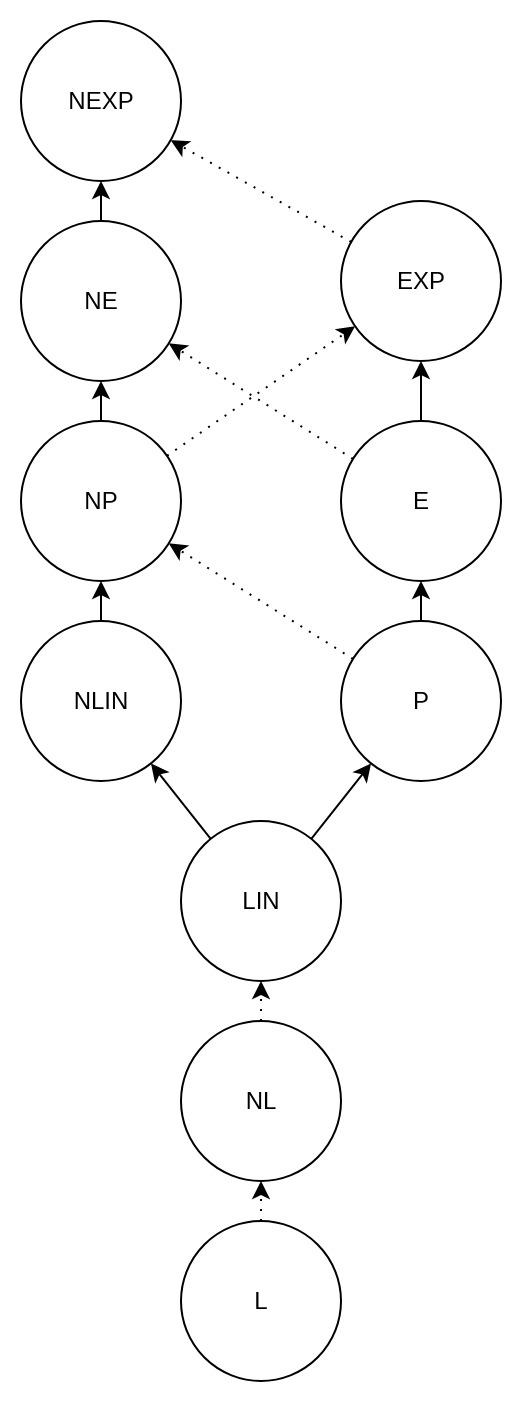
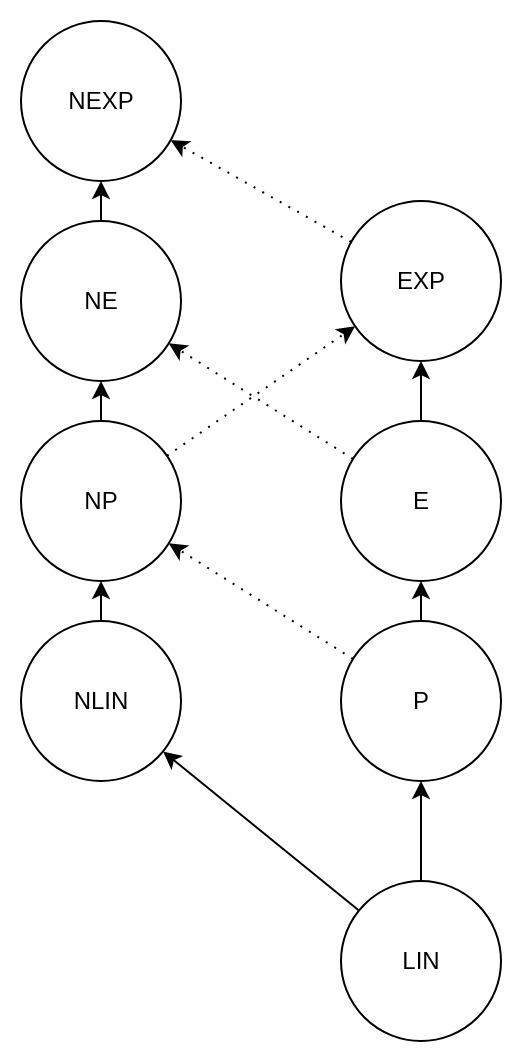
updated site

diff --git a/index.html b/index.html
@@ -7,7 +7,7 @@
 <meta name="viewport" content="width=device-width, initial-scale=1.0, user-scalable=yes">
 
 <meta name="author" content="Daniel Schwarzenbach">
-<meta name="dcterms.date" content="2026-05-27">
+<meta name="dcterms.date" content="2026-06-02">
 
 <title>TI-Summary</title>
 <style>
@@ -147,6 +147,8 @@ window.Quarto = {
   <ul class="collapse">
   <li><a href="#endliche-automaten" id="toc-endliche-automaten" class="nav-link" data-scroll-target="#endliche-automaten">Endliche Automaten</a></li>
   <li><a href="#reguläre-mengen" id="toc-reguläre-mengen" class="nav-link" data-scroll-target="#reguläre-mengen">Reguläre Mengen</a></li>
+  <li><a href="#pushdown-automaten" id="toc-pushdown-automaten" class="nav-link" data-scroll-target="#pushdown-automaten">Pushdown-Automaten</a></li>
+  <li><a href="#kontextfreie-sprachen" id="toc-kontextfreie-sprachen" class="nav-link" data-scroll-target="#kontextfreie-sprachen">Kontextfreie Sprachen</a></li>
   </ul></li>
   <li><a href="#theorie-der-formalen-sprachen" id="toc-theorie-der-formalen-sprachen" class="nav-link" data-scroll-target="#theorie-der-formalen-sprachen">Theorie der formalen Sprachen</a>
   <ul class="collapse">
@@ -176,7 +178,7 @@ window.Quarto = {
     <div>
     <div class="quarto-title-meta-heading">Published</div>
     <div class="quarto-title-meta-contents">
-      <p class="date">May 27, 2026</p>
+      <p class="date">June 2, 2026</p>
     </div>
   </div>
   
@@ -3732,7 +3734,8 @@ Lösung:
 <p><img src="./img/Gödelisierung.png" class="img-fluid"></p>
 <p>ist eine natürliche Zahl keine gültige RAM, so wird sie als <code>STOP</code> kodiert.</p>
 <p>somit können wir jeder Natürlichen Zahl <span class="math inline">\(x\)</span> eine RAM <span class="math inline">\(M_x\)</span> zuordnen.</p>
-<p>Diesen Vorgang nennt man auch <strong>Gödelisierung</strong>.</p>
+<p>Diesen Vorgang nennt man auch <strong>Gödelisierung</strong>. Wir können auch funktionen von höheren Programmiersprachen wie Julia oder Python auf diese Weise kodieren. Der Vorgang ist aber auch reversibel, d.h. wir können aus einer natürlichen Zahl <span class="math inline">\(x\)</span> die RAM <span class="math inline">\(M_x\)</span> rekonstruieren und damit auch eine semantisch äquivalenten Julia Funktion, wie die, die wir ursprünglich kodiert haben.</p>
+<p><img src="./img/Goedelisierung.jpg" class="img-fluid"></p>
 <p>Das <strong>Halteproblem</strong> ist nicht nur für uns Informatiker ein fundamentales Problem, sondern auch für die Mathematik selbst, da es die Grenzen der Beweisbarkeit aufzeigt und zeigt das Mathematik kein abgeschlossenes System ist.</p>
 <div class="quarto-video ratio ratio-16x9"><iframe data-external="1" src="https://www.youtube.com/embed/HeQX2HjkcNo?si=H4FQupNvg2lf6zRh&amp;t=814" title="" frameborder="0" allow="accelerometer; autoplay; clipboard-write; encrypted-media; gyroscope; picture-in-picture" allowfullscreen=""></iframe></div>
 <ul>
@@ -4147,29 +4150,32 @@ Beweis:
 </div>
 <div id="callout-115" class="callout-115-contents callout-collapse collapse">
 <div class="callout-body-container callout-body">
-<p>Wir benötigen dafür die Gödelisierung. Die Gödelisierung ist eine surjektive Funktion, die eine partielle injektive umkehr Funktion hat. Diese können wie folgt in Julia deklariert werden:</p>
-<div class="sourceCode" id="cb41"><pre class="sourceCode julia code-with-copy"><code class="sourceCode julia"><span id="cb41-1"><a href="#cb41-1" aria-hidden="true" tabindex="-1"></a><span class="co"># surjektiv, deckt alle Funktionen ab</span></span>
-<span id="cb41-2"><a href="#cb41-2" aria-hidden="true" tabindex="-1"></a><span class="fu">gödelisierung</span>(x<span class="op">::</span><span class="dt">Integer</span>)<span class="op">::</span><span class="dt"> Function</span></span>
-<span id="cb41-3"><a href="#cb41-3" aria-hidden="true" tabindex="-1"></a><span class="co"># injektive umkehr Funktion, deckt nicht alle n ∈ ℕ ab</span></span>
-<span id="cb41-4"><a href="#cb41-4" aria-hidden="true" tabindex="-1"></a><span class="fu">gödelisierung⁻¹</span>(f<span class="op">::</span><span class="dt">Function</span>)<span class="op">::</span><span class="dt"> Integer</span></span></code><button title="Copy to Clipboard" class="code-copy-button"><i class="bi"></i></button></pre></div>
+<p>Wir benötigen dafür die Gödelisierung. Die Gödelisierung ist eine injektive Funktion, die eine surjektive Umkehrfunktion hat. Diese können wie folgt in Julia deklariert werden:</p>
+<div class="sourceCode" id="cb41"><pre class="sourceCode julia code-with-copy"><code class="sourceCode julia"><span id="cb41-1"><a href="#cb41-1" aria-hidden="true" tabindex="-1"></a><span class="co"># injektiv</span></span>
+<span id="cb41-2"><a href="#cb41-2" aria-hidden="true" tabindex="-1"></a><span class="fu">gödelisierung</span>(f<span class="op">::</span><span class="dt">Function</span>)<span class="op">::</span><span class="dt"> Integer</span></span>
+<span id="cb41-3"><a href="#cb41-3" aria-hidden="true" tabindex="-1"></a></span>
+<span id="cb41-4"><a href="#cb41-4" aria-hidden="true" tabindex="-1"></a><span class="co"># surjektiv</span></span>
+<span id="cb41-5"><a href="#cb41-5" aria-hidden="true" tabindex="-1"></a><span class="fu">degödelisierung</span>(x<span class="op">::</span><span class="dt">Integer</span>)<span class="op">::</span><span class="dt"> Function</span></span></code><button title="Copy to Clipboard" class="code-copy-button"><i class="bi"></i></button></pre></div>
+<p><img src="./img/Goedelisierung.jpg" class="img-fluid"></p>
 <p>Wir zeigen zuerst, dass wenn <span class="math inline">\(A\)</span> aufzählbar ist, <span class="math inline">\(A ≤_m K\)</span> gilt:</p>
 <div class="sek">
-<p>Sei <span class="math inline">\(A\)</span> eine aufzählbare Menge. Dann gibt es eine berechenbare Funktion <span class="math inline">\(f: ℕ → ℕ\)</span>, sodass <span class="math inline">\(R_f = A\)</span>. Die Funktion <code>gödelisierung⁻¹</code> nimmt ein Programm (julia Typ Function) und wandelt es in eine natürliche Zahl um.</p>
+<p>Sei <span class="math inline">\(A\)</span> eine aufzählbare Menge.</p>
+<p><span class="math inline">\(⇒ ∃f: ℕ → ℕ\)</span> berechnbar, sodass <span class="math inline">\(R_f = A\)</span>.</p>
 <div class="sourceCode" id="cb42"><pre class="sourceCode julia code-with-copy"><code class="sourceCode julia"><span id="cb42-1"><a href="#cb42-1" aria-hidden="true" tabindex="-1"></a><span class="kw">function</span> <span class="fu">g</span>(x)</span>
-<span id="cb42-2"><a href="#cb42-2" aria-hidden="true" tabindex="-1"></a>    <span class="cf">return</span> (<span class="fu">gödelisierung⁻¹</span>(f), x)</span>
+<span id="cb42-2"><a href="#cb42-2" aria-hidden="true" tabindex="-1"></a>    <span class="cf">return</span> (<span class="fu">gödelisierung</span>(f), x)</span>
 <span id="cb42-3"><a href="#cb42-3" aria-hidden="true" tabindex="-1"></a><span class="kw">end</span></span></code><button title="Copy to Clipboard" class="code-copy-button"><i class="bi"></i></button></pre></div>
 <p><span class="math inline">\(g\)</span> ist damit berechenbar und erfüllt die Bedingung:</p>
-<p><span class="math display">\[x ∈ A \; \longleftrightarrow \; g(x) ∈ K\]</span> . Es erfüllt die Bedingung:</p>
+<p><span class="math display">\[x ∈ A \; \longleftrightarrow \; g(x) ∈ K\]</span></p>
 </div>
 <p>Nun zeigen wir, dass <span class="math inline">\(K ≤_m K_0\)</span> gilt:</p>
 <div class="sek">
 <p>Betrachte die berechenbare Funktion <span class="math inline">\(q:ℕ^2 → ℕ\)</span> das für jedes Paar <span class="math inline">\((i, y) ∈ ℕ^2\)</span> ein Programm <span class="math inline">\(M_{q(i,x)}\)</span> konstruieren das <span class="math inline">\(M_i\)</span> auf der Eingabe <span class="math inline">\(y\)</span> simuliert und die eigene Eingabe ignoriert. Da für jedes Paar <span class="math inline">\((i, y) ∈ ℕ^2\)</span> ein solches Programm <span class="math inline">\(M_{q(i,y)}\)</span> konstuierbar ist, ist <span class="math inline">\(q\)</span> berechenbar und total:</p>
 <div class="sourceCode" id="cb43"><pre class="sourceCode julia code-with-copy"><code class="sourceCode julia"><span id="cb43-1"><a href="#cb43-1" aria-hidden="true" tabindex="-1"></a><span class="kw">function</span> <span class="fu">q</span>(i, y)</span>
 <span id="cb43-2"><a href="#cb43-2" aria-hidden="true" tabindex="-1"></a>    <span class="kw">function</span> <span class="fu">f</span>(x)</span>
-<span id="cb43-3"><a href="#cb43-3" aria-hidden="true" tabindex="-1"></a>        M_i<span class="op">::</span><span class="dt">Function </span><span class="op">=</span> <span class="fu">gödelisierung</span>(i)</span>
+<span id="cb43-3"><a href="#cb43-3" aria-hidden="true" tabindex="-1"></a>        M_i<span class="op">::</span><span class="dt">Function </span><span class="op">=</span> <span class="fu">degödelisierung</span>(i)</span>
 <span id="cb43-4"><a href="#cb43-4" aria-hidden="true" tabindex="-1"></a>        <span class="cf">return</span> <span class="fu">M_i</span>(y)</span>
 <span id="cb43-5"><a href="#cb43-5" aria-hidden="true" tabindex="-1"></a>    <span class="kw">end</span></span>
-<span id="cb43-6"><a href="#cb43-6" aria-hidden="true" tabindex="-1"></a>    <span class="cf">return</span> <span class="fu">gödelisierung⁻¹</span>(f)</span>
+<span id="cb43-6"><a href="#cb43-6" aria-hidden="true" tabindex="-1"></a>    <span class="cf">return</span> <span class="fu">gödelisierung</span>(f)</span>
 <span id="cb43-7"><a href="#cb43-7" aria-hidden="true" tabindex="-1"></a><span class="kw">end</span></span></code><button title="Copy to Clipboard" class="code-copy-button"><i class="bi"></i></button></pre></div>
 <p><span class="math inline">\(q\)</span> erfüllt damit die Bedingung:</p>
 <p><span class="math display">\[
@@ -4322,7 +4328,7 @@ Lösung:
 <span id="cb44-8"><a href="#cb44-8" aria-hidden="true" tabindex="-1"></a><span class="co"># Ende der Schleife</span></span>
 <span id="cb44-9"><a href="#cb44-9" aria-hidden="true" tabindex="-1"></a>5   <span class="dt">R0</span> <span class="fu">←</span> <span class="dt">R2</span></span>
 <span id="cb44-10"><a href="#cb44-10" aria-hidden="true" tabindex="-1"></a>6   <span class="kw">STOP</span></span></code><button title="Copy to Clipboard" class="code-copy-button"><i class="bi"></i></button></pre></div>
-<p>wir sagen, dass die Schleife <span class="math inline">\(y\)</span>-mal durchlaufen.</p>
+<p>wir sagen, dass die Schleife <span class="math inline">\(y\)</span>-mal durchlaufen wird.</p>
 <p><span class="math display">\[t_M(x,y,z) = 4y + 3\]</span></p>
 <p>y ist muss noch codiert werden, damit wir die Laufzeit in Abhängigkeit von der Eingabelänge angeben können. Dafür brauchen wir <span class="math inline">\(|y|\)</span> Stellen, also ist <span class="math inline">\(y ≤ 2^{|y|+1} - 2\)</span>.</p>
 <p><span class="math display">\[≤ 4 ⋅ 2^{|y|+1} - 8 + 3\]</span> <span class="math display">\[≤ 8 ⋅ 2^{|x|+|y|+|z|} - 5 \]</span> <span class="math display">\[≤ 8 ⋅ 2^n\]</span></p>
@@ -4424,17 +4430,14 @@ p(n) = a_0 + a_1n + ... + a_rn^r
 <li><span class="math inline">\(\textbf{NP} \stackrel{?}{⊊} \textbf{EXP}\)</span></li>
 <li><span class="math inline">\(\textbf{E} \stackrel{?}{⊊} \textbf{NE}\)</span></li>
 <li><span class="math inline">\(\textbf{EXP} \stackrel{?}{⊊} \textbf{NEXP}\)</span></li>
-<li><span class="math inline">\(\textbf{L} \stackrel{?}{⊊} \textbf{NL}\)</span></li>
-<li><span class="math inline">\(\textbf{NL} \stackrel{?}{⊊} \textbf{LIN}\)</span></li>
 </ol>
 <p>Wir wissen aber das <span class="math inline">\(\textbf{LIN} ≠ \textbf{NLIN}\)</span>.</p>
-<p>Die Komplexitätsklassen werden durch die Laufzeit einer Turingmaschine definiert, die die Menge entscheidet.</p>
+<p>Die Komplexitätsklassen werden durch die <strong>Laufzeit</strong> einer Turingmaschine definiert, die die Menge entscheidet.</p>
 <ul>
-<li><span class="math inline">\(\textbf{L} = \mathcal{O}(log(n))\)</span></li>
-<li><span class="math inline">\(\textbf{LIN} = \mathcal{O}(n)\)</span></li>
-<li><span class="math inline">\(\textbf{P} = \mathcal{O}(n^c)\)</span></li>
-<li><span class="math inline">\(\textbf{E} = \mathcal{O}(2^{cn})\)</span></li>
-<li><span class="math inline">\(\textbf{EXP} = \mathcal{O}(2^{n^c})\)</span></li>
+<li><span class="math inline">\(\textbf{LIN} ≃ \mathcal{O}(n)\)</span></li>
+<li><span class="math inline">\(\textbf{P} ≃ \mathcal{O}(n^c)\)</span></li>
+<li><span class="math inline">\(\textbf{E} ≃ \mathcal{O}(2^{cn})\)</span></li>
+<li><span class="math inline">\(\textbf{EXP} ≃ \mathcal{O}(2^{n^c})\)</span></li>
 </ul>
 </div>
 <div class="col">
@@ -4443,6 +4446,7 @@ p(n) = a_0 + a_1n + ... + a_rn^r
 </center>
 </div>
 </div>
+<p>⚠️ In der Literatur wird oft <span class="math inline">\(\textbf{LIN} := \textbf{LINSPACE}\)</span> definiert! Hier ist aber <span class="math inline">\(\textbf{LIN} := \textbf{LINTIME}\)</span> gemeint!</p>
 </section>
 <p>Mögliche Ergebnisse des <span class="math inline">\(\textbf{P}\)</span> vs <span class="math inline">\(\textbf{NP}\)</span> Problems:</p>
 <ol type="1">
@@ -4723,7 +4727,7 @@ Note:
 <h3 class="anchored" data-anchor-id="pumpinglemma-für-reguläre-sprachen">Pumpinglemma für reguläre Sprachen:</h3>
 <p>Für alle <span class="math inline">\(L ∈ \mathcal{L}_3\)</span> gilt:</p>
 <p><span class="math display">\[
-\exists n_0 \in \mathbb{N} : \forall x \in L, |x| ≥ n_0, \; x = uvw
+\exists n_0 \in \mathbb{N} : \forall x \in L, |x| ≥ n_0, \; \exists u,v,w : x = uvw
 \]</span></p>
 <p>mit</p>
 <ul>
@@ -4738,6 +4742,44 @@ Note:
 \textbf{DEA} ⊂ \textbf{P}
 \]</span></p>
 </div>
+</section>
+<section id="pushdown-automaten" class="level2">
+<h2 class="anchored" data-anchor-id="pushdown-automaten">Pushdown-Automaten</h2>
+<section id="definition-dpda-deterministischer-pushdown-automat" class="level3 def">
+<h3 class="anchored" data-anchor-id="definition-dpda-deterministischer-pushdown-automat"><em>Definition:</em> <strong>DPDA</strong> (deterministischer Pushdown-Automat)</h3>
+<p>Ein <strong>deterministischer Pushdown-Automat (DPDA)</strong> ist ein 6-Tupel <span class="math inline">\(A = (Σ, Γ, Z, f, z_0, Z')\)</span>, bestehend aus: - <span class="math inline">\(Σ\)</span>: einem endlichen, nichtleeren, <strong>Eingabealphabet</strong> - <span class="math inline">\(Γ\)</span>: einem endlichen, nichtleeren, <strong>Stackalphabet</strong> - <span class="math inline">\(Z\)</span>: einer endlichen, nichtleeren, <strong>Zustandsmenge</strong> - <span class="math inline">\(f: Z × (Σ ∪ \{ε\}) × (Γ ∪ \{ε\}) → Z × (Γ ∪ \{ε\})\)</span>: einer Übergangsfunktion - <span class="math inline">\(z_0 ∈ Z\)</span>: einem <strong>Startzustand</strong> - <span class="math inline">\(Z' ⊆ Z\)</span>: einer Menge von <strong>Endzuständen</strong></p>
+</section>
+<section id="definition-npda-nichtdeterministischer-pushdown-automat" class="level3 def">
+<h3 class="anchored" data-anchor-id="definition-npda-nichtdeterministischer-pushdown-automat"><em>Definition:</em> <strong>NPDA</strong> (nichtdeterministischer Pushdown-Automat)</h3>
+<p>Ein <strong>nichtdeterministischer Pushdown-Automat (NPDA)</strong> ist ein 7-Tupel <span class="math inline">\(A = (Σ, Γ, Z, f, z_0, z_s, Z')\)</span>, bestehend aus: - <span class="math inline">\(Σ\)</span>: einem endlichen, nichtleeren, <strong>Eingabealphabet</strong> - <span class="math inline">\(Γ\)</span>: einem endlichen, nichtleeren, <strong>Stackalphabet</strong> - <span class="math inline">\(Z\)</span>: einer endlichen, nichtleeren, <strong>Zustandsmenge</strong> - <span class="math inline">\(f: Z × (Σ ∪ \{ε\}) × (Γ ∪ \{ε\}) → \mathcal{P}(Z × (Γ ∪ \{ε\}))\)</span>: einer Übergangsfunktion - <span class="math inline">\(z_0 ∈ Z\)</span>: einem <strong>Startzustand</strong> - <span class="math inline">\(z_s ∈ Z\)</span>: einem <strong>Stackstartzustand</strong> - <span class="math inline">\(Z' ⊆ Z\)</span>: einer Menge von <strong>Endzuständen</strong></p>
+</section>
+<div class="prop">
+<p><span class="math display">\[
+\textbf{DPDA} ⊊ \textbf{NPDA} = \mathcal{L}_2
+\]</span></p>
+</div>
+<div class="prop">
+<p>Mann nennt die Sprachen die von einem <span class="math inline">\(\textbf{DPDA}\)</span> entschieden werden <strong>deterministisch kontextfreie Sprachen</strong> und es gilt:</p>
+<p><span class="math display">\[
+\textbf{DCFL} = \mathcal{L}_{2.5} = \textbf{DPDA}
+\]</span></p>
+</div>
+</section>
+<section id="kontextfreie-sprachen" class="level2">
+<h2 class="anchored" data-anchor-id="kontextfreie-sprachen">Kontextfreie Sprachen</h2>
+<section id="pumpinglemma-für-kontextfreie-sprachen" class="level3 prop">
+<h3 class="anchored" data-anchor-id="pumpinglemma-für-kontextfreie-sprachen">Pumpinglemma für kontextfreie Sprachen:</h3>
+<p>Für alle <span class="math inline">\(L ∈ \mathcal{L}_2\)</span> gilt:</p>
+<p><span class="math display">\[
+\exists n_0 \in \mathbb{N} : \forall z \in L, |z| ≥ n_0, \; ∃u,v,w,x,y: z = uvwxy
+\]</span></p>
+<p>mit</p>
+<ul>
+<li><span class="math inline">\(|uvx| ≤ n_0\)</span></li>
+<li><span class="math inline">\(|vx| ≥ 1\)</span></li>
+<li><span class="math inline">\(uv^iwx^iy ∈ L\)</span> für alle <span class="math inline">\(i ≥ 0\)</span></li>
+</ul>
+</section>
 </section>
 </section>
 <section id="theorie-der-formalen-sprachen" class="level1">